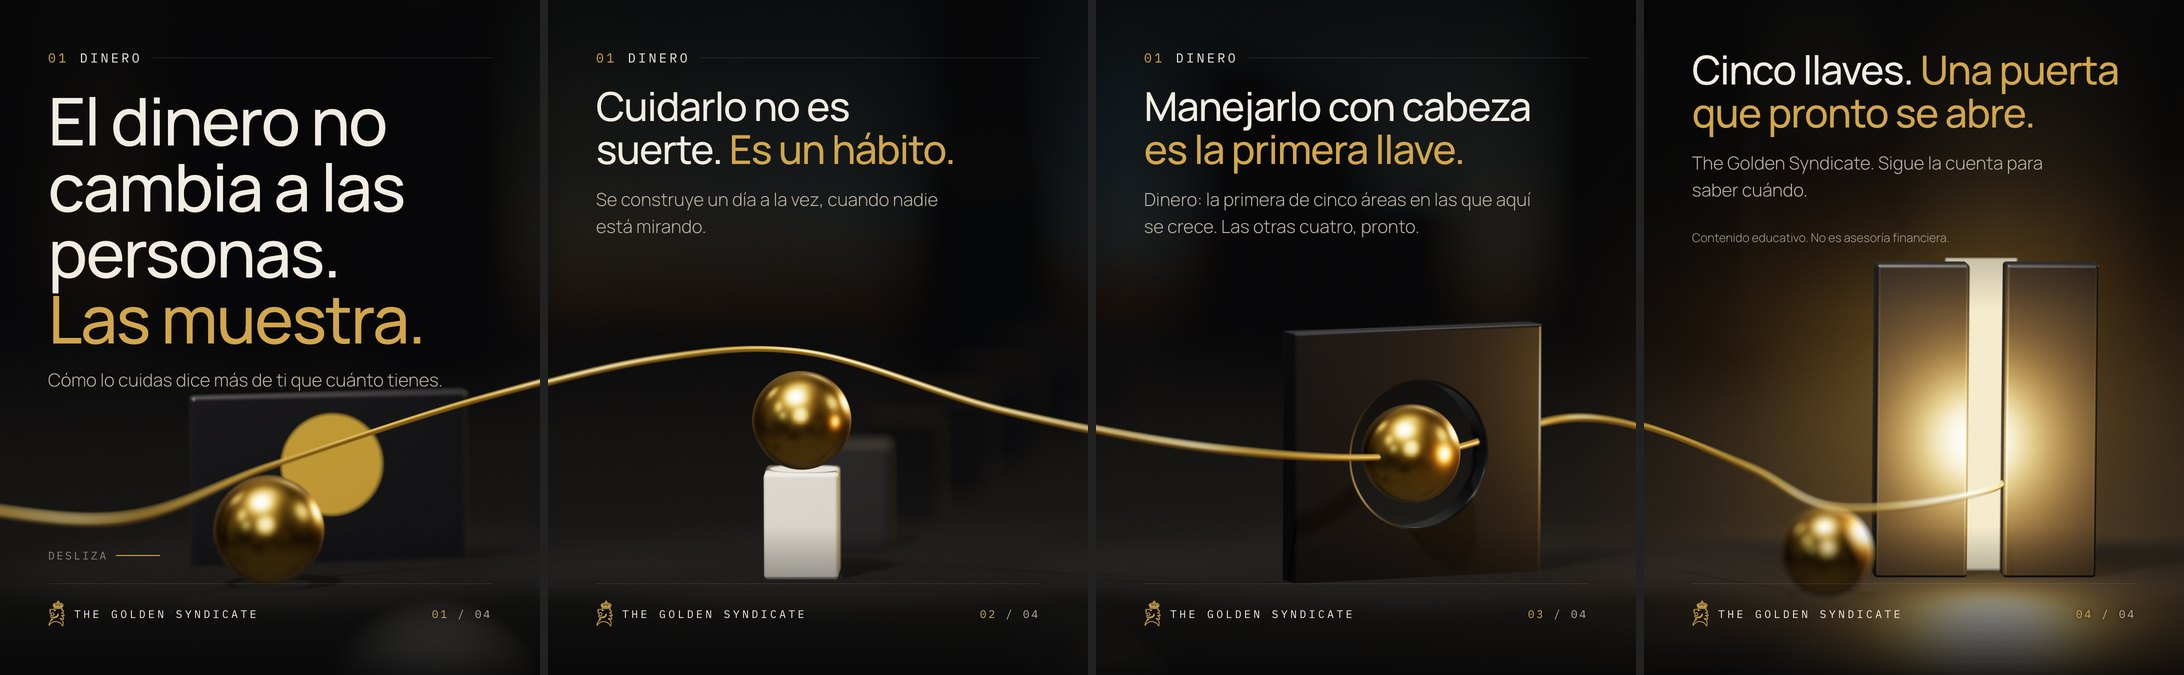
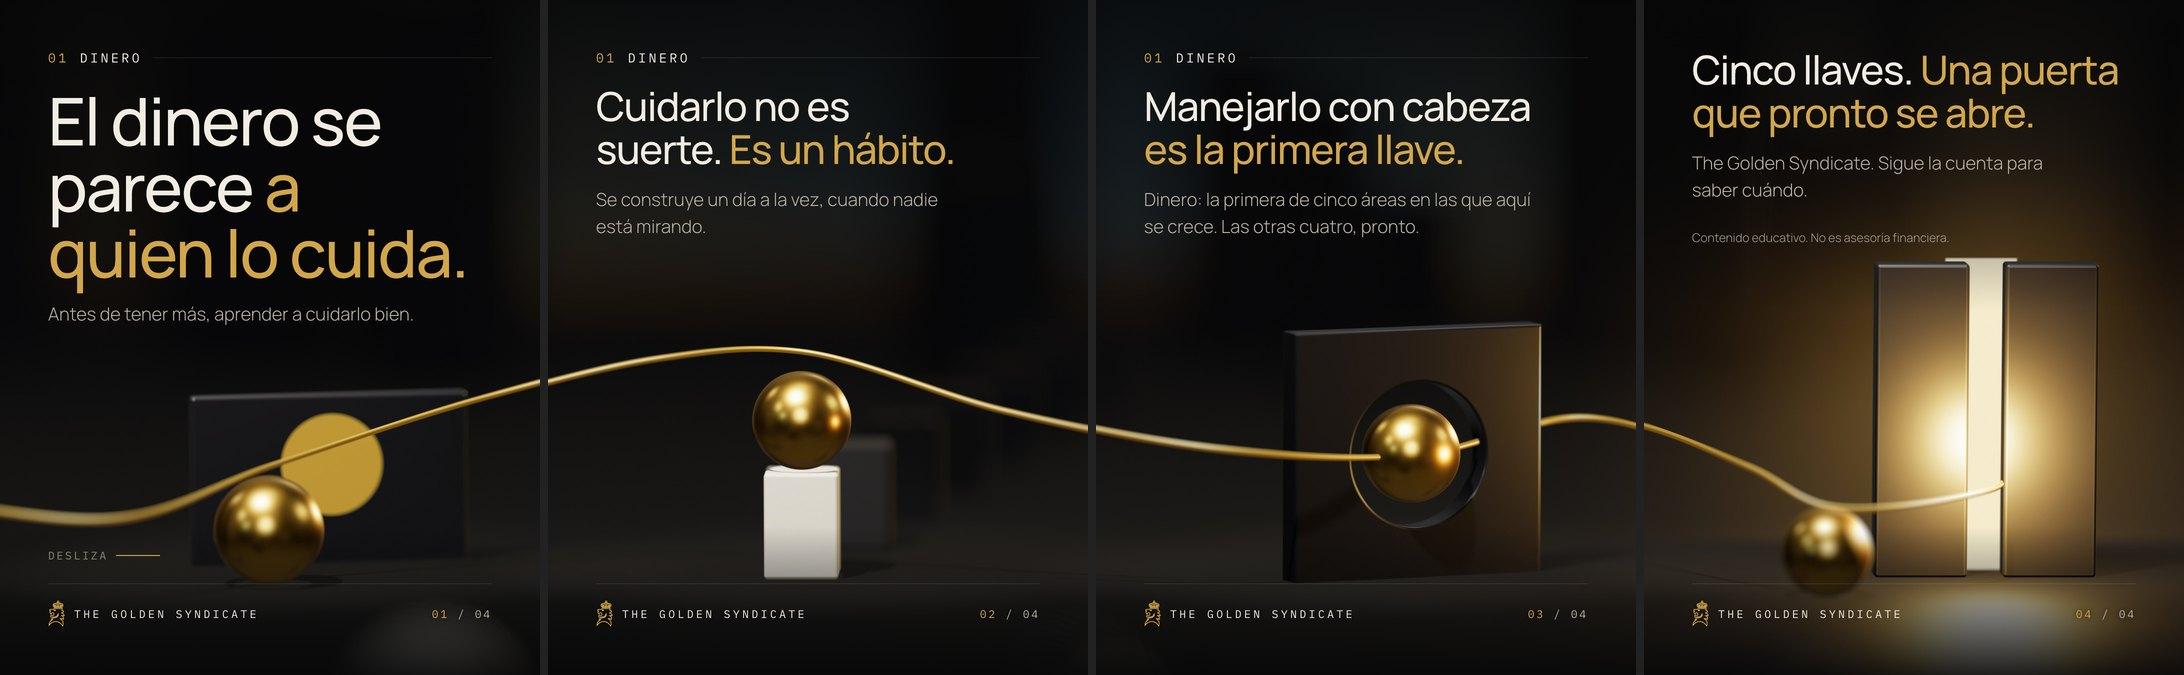
La portada del carrusel de dinero invita en vez de juzgar
«El dinero no cambia a las personas, las muestra» sonaba a reproche. Ahora:
«El dinero se parece a quien lo cuida».

diff --git a/marca/sistema-diseno/carruseles/08-dinero-expectativa/lamina-1.html b/marca/sistema-diseno/carruseles/08-dinero-expectativa/lamina-1.html
@@ -175,7 +175,7 @@ body { display: grid; place-items: center; }
 .desliza + .riel { margin-top: 0; }
 .cabeza { display: grid; gap: calc(30 * var(--u)); }
 </style></head>
-<body><main class="lienzo"><div class="hoja hoja--escena" style="--escena:url('escena-1.jpg')"><div class="cabeza"><p class="llave"><b>01</b>dinero</p><h1 class="titular titular--xl" style="margin-top:calc(-24 * var(--u))">El dinero no cambia a las personas. <em>Las muestra.</em></h1><p class="cuerpo">Cómo lo cuidas dice más de ti que cuánto tienes.</p></div><span class="desliza" style="margin-top:auto;margin-bottom:calc(40 * var(--u))">Desliza</span><footer class="riel"><span class="riel__marca"><svg class="riel__leon leon" viewBox="391 475 250 393" fill="none" stroke="currentColor" stroke-width="1.6" stroke-linejoin="round" stroke-linecap="round" aria-hidden="true"><g transform="matrix(1 0 0 -1 0 1350)">
+<body><main class="lienzo"><div class="hoja hoja--escena" style="--escena:url('escena-1.jpg')"><div class="cabeza"><p class="llave"><b>01</b>dinero</p><h1 class="titular titular--xl" style="margin-top:calc(-24 * var(--u))">El dinero se parece <em>a quien lo cuida.</em></h1><p class="cuerpo">Antes de tener más, aprender a cuidarlo bien.</p></div><span class="desliza" style="margin-top:auto;margin-bottom:calc(40 * var(--u))">Desliza</span><footer class="riel"><span class="riel__marca"><svg class="riel__leon leon" viewBox="391 475 250 393" fill="none" stroke="currentColor" stroke-width="1.6" stroke-linejoin="round" stroke-linecap="round" aria-hidden="true"><g transform="matrix(1 0 0 -1 0 1350)">
     <path d="M501.74 727.4L477.25 729.58L487.21 716.92C493.61 718.24 497.95 721.37 501.74 727.4ZM519.12 624.46C538.71 635.56 545.88 655.77 538.95 676.48C535.01 656.28 522.54 636.81 500.96 630.33C484.46 625.38 463.5 632.42 436.1 623.24C427.97 625.95 429.65 640.35 432.02 647L435.79 657.56C445.83 651.42 454.64 644.89 465.66 649.07C472.89 651.8 477.16 661.32 477.02 668.2C476.87 676.05 473.42 685.13 465.07 689.5C458.23 693.07 436.56 688.35 434.86 671.26C426.43 677.87 417.02 690.12 419.5 703C420.37 707.45 428.1 713.68 431.48 717.3L421.22 716.07C418.67 715.76 415.56 722.04 415.86 724.64L416.88 733.62C417.15 735.93 423.25 737.74 425.87 737.8L467.47 738.76C471.44 741.11 478.91 749.49 483.48 749.74L599.92 749.58C597.6 740.12 593.94 735.71 588.53 729.57C605.62 727.49 620.91 712.65 617.73 697.13C605.17 698.15 591.96 696.75 586.49 684.26C608.72 685.79 628.27 669.73 627.28 646.31C612.44 650.45 597.97 652.19 583.71 647.3C611.04 641.02 625.25 616.97 616.75 592.32C602 602.19 585.52 609.8 566.88 604.25C608.28 583.78 624.41 537.01 604.43 495.56C585.25 535.09 549.25 560.1 507.62 561.86C464.89 563.67 426.39 540.58 404.99 502.82C405.69 550.06 423.49 568.34 461.43 591.95C453.44 593.42 445.42 592.56 434.95 590.68C457.79 628.35 479.78 602.18 519.12 624.46Z" vector-effect="non-scaling-stroke"/>
     <path d="M544.71 765.54L531.04 765.28L531.05 807.66C531.05 813.12 528.59 816.81 522.85 817.58C517.02 818.37 511.21 817.04 507.79 812.09C505 808.05 503.55 801.15 506.94 796.32L528.61 765.45L510.82 765.26L494.55 788.47C490.32 794.51 489.4 801.54 490.38 808.58C486.35 808.95 482.25 806.91 481.18 803.28C479.46 797.46 481.66 791.68 484.95 786.95L499.94 765.46L482.53 765.27C472.58 779.27 457.31 797.09 469.89 813.76C476.14 822.03 486.31 825.63 497.13 822.48C507.58 834.34 524.3 835.56 537.75 827.63C551.06 835.14 567.49 834.88 578.26 822.46C588.13 825.26 597.82 822.8 604.22 815.63C619.16 798.89 603.79 780.26 593.3 765.26L575.49 765.35L590.12 786.15C592.54 789.6 594.57 794.07 595.12 798.27C595.91 804.33 591.53 809.25 585.01 808.63C586.66 800.32 584.54 793.33 580.09 787.04L564.81 765.44L547.03 765.72L567.37 794.35C572.11 801.03 571.54 808.98 565.45 814.68C561.22 818.64 547.51 820.08 545.85 812.56C543.33 797.09 545.76 782.04 544.71 765.54Z" vector-effect="non-scaling-stroke"/>
     <path d="M533.51 859.94C539.98 862.56 546.25 858.94 548.59 853.22C550.93 847.52 547.98 840.59 541.79 838.16C536.36 836.03 529.85 838.6 527.22 844.38C524.73 849.85 526.6 857.15 533.51 859.94Z" vector-effect="non-scaling-stroke"/>
